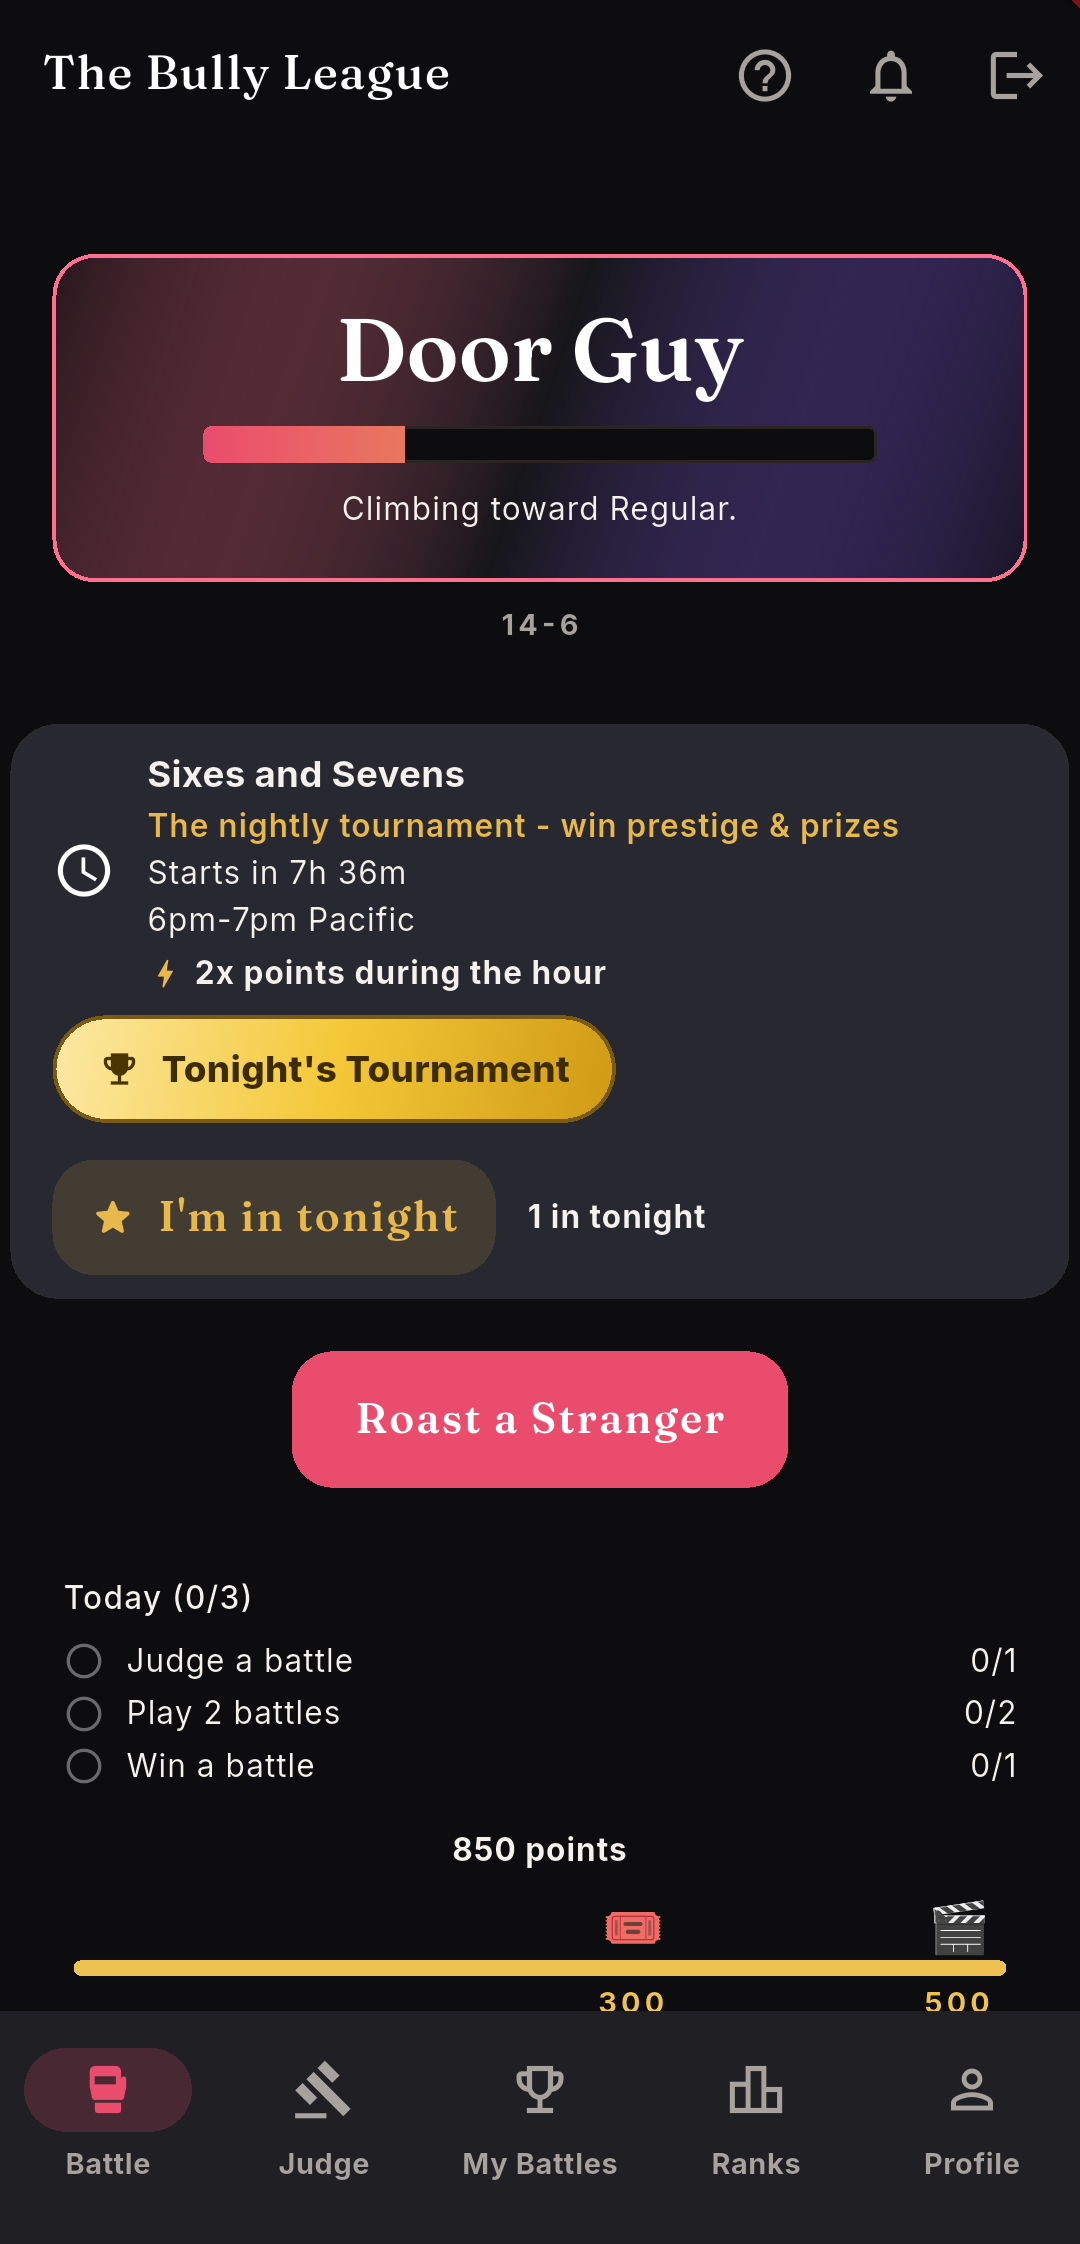
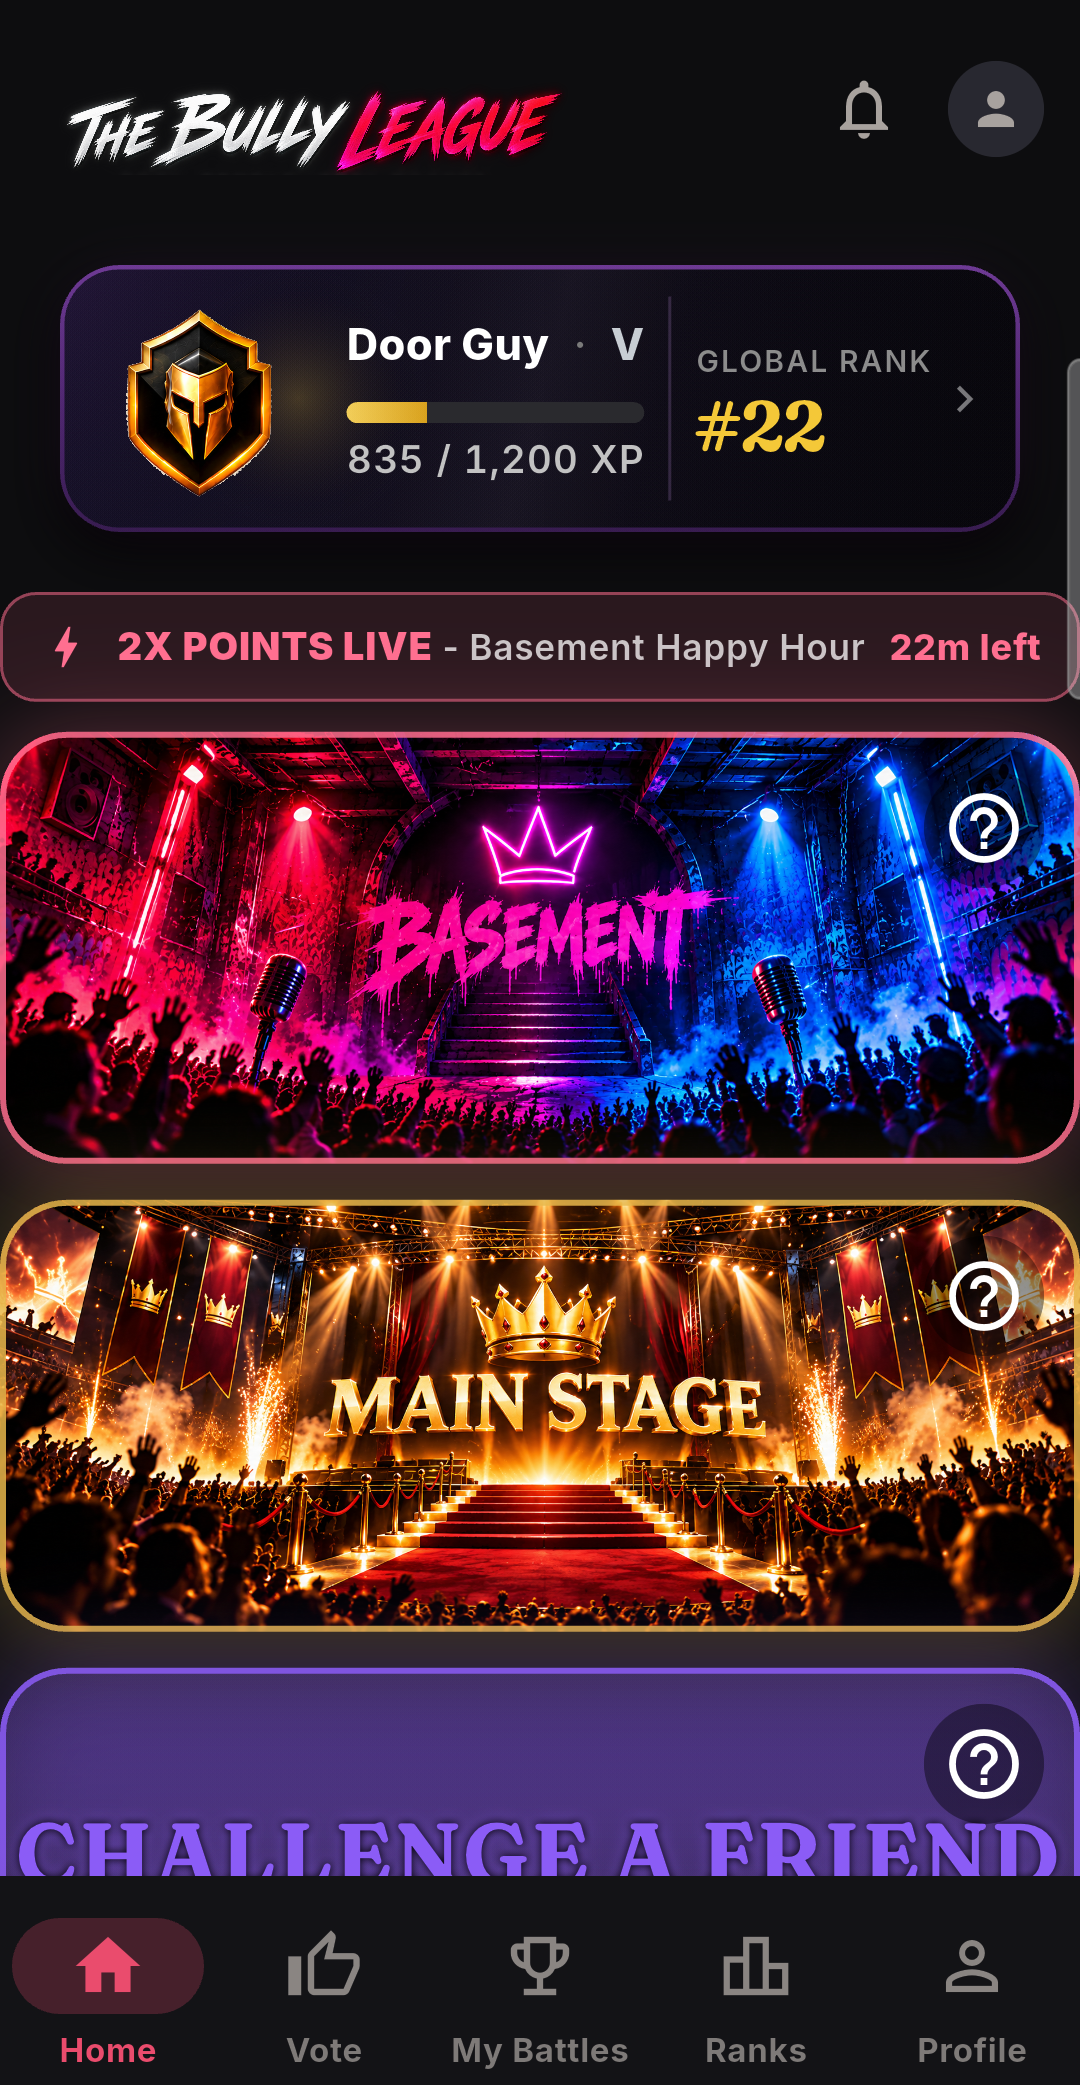
Website: real Basement/Main Stage art + accurate mode copy
- Added a "Two ways to play" homepage section showing the real in-app mode
  art for The Basement (everyday ranked) and The Main Stage (weekly finals),
  cropped from a live on-device Home capture. Names both modes and describes
  them accurately (qualifier ladder -> weekly judged finals for the belt).
- Refreshed the demo Home screenshot (public/demo/home.png): the old one was
  from Sep 1, before the Home redesign; the new capture shows the current
  rank card, the Basement/Main Stage hero cards and the live Happy Hour strip.
  (The Main Stage hub's Lobby tab was NOT used - it's full of slur-laden test
  chat; the battle screen stays a mockup since a real one shows faces.)
- Demo page copy: "nightly tournament" -> "weekly finals" (the Daily Gauntlet
  is gone; the Main Stage is weekly).

diff --git a/website/src/app/page.tsx b/website/src/app/page.tsx
@@ -1,4 +1,5 @@
 import Link from "next/link";
+import Image from "next/image";
 import { getTopRoasters } from "@/lib/leaderboard";
 import { StoreCta } from "@/components/StoreCta";
 import { PhoneFrame } from "@/components/demo/PhoneFrame";
@@ -19,6 +20,7 @@ export default async function Home() {
     <main className="flex-1">
       <Hero />
       <HowItWorks />
+      <Modes />
       <MainStageSection />
       <Rules />
       <Leaderboard roasters={topRoasters} />
@@ -103,6 +105,57 @@ function HowItWorks() {
           </li>
         ))}
       </ol>
+    </section>
+  );
+}
+
+/* -------------------------------------------------------- Two ways to play */
+function Modes() {
+  const modes = [
+    {
+      img: "/demo/basement.png",
+      h: 430,
+      tag: "Everyday",
+      name: "The Basement",
+      color: "var(--primary)",
+      blurb:
+        "Get matched 1-on-1 with a random stranger, roast them live, and let the crowd vote. Climb the ranks battle by battle — and every ranked battle is your qualifier for the finals.",
+    },
+    {
+      img: "/demo/mainstage.png",
+      h: 440,
+      tag: "Weekly finals",
+      name: "The Main Stage",
+      color: "var(--reward)",
+      blurb:
+        "Each week the top four earn a spot on the Main Stage — one night, one live judged bracket, one belt. The whole League watches.",
+    },
+  ];
+  return (
+    <section className="mx-auto max-w-6xl px-6 py-20">
+      <SectionHead
+        eyebrow="Two ways to play"
+        title="The Basement & the Main Stage"
+        sub="Grind the everyday ladder. Earn the weekly spotlight."
+      />
+      <div className="mt-12 grid gap-8 md:grid-cols-2">
+        {modes.map((m) => (
+          <div key={m.name}>
+            <Image
+              src={m.img}
+              width={1060}
+              height={m.h}
+              alt={m.name}
+              className="block h-auto w-full rounded-2xl"
+            />
+            <div className="mt-4">
+              <span className="eyebrow" style={{ color: m.color }}>{m.tag}</span>
+              <h3 className="mt-1 display text-2xl">{m.name}</h3>
+              <p className="mt-2 text-[14px] leading-relaxed text-muted">{m.blurb}</p>
+            </div>
+          </div>
+        ))}
+      </div>
     </section>
   );
 }

diff --git a/website/src/app/demo/page.tsx b/website/src/app/demo/page.tsx
@@ -20,7 +20,7 @@ export default function DemoPage() {
         <h1 className="mt-2 text-4xl sm:text-5xl">See it in action</h1>
         <p className="mt-3 max-w-md text-sm text-muted">
           No Android? No problem. Click through the real screens — from the
-          first tap to the nightly tournament.
+          first tap to the weekly finals.
         </p>
       </div>
 

diff --git a/website/src/components/demo/screens.tsx b/website/src/components/demo/screens.tsx
@@ -14,7 +14,7 @@ export function ScreenHomeReal() {
       <Image
         src="/demo/home.png"
         width={1080}
-        height={2244}
+        height={2085}
         alt="The Bully League home screen"
         className="block h-auto w-full"
         priority
